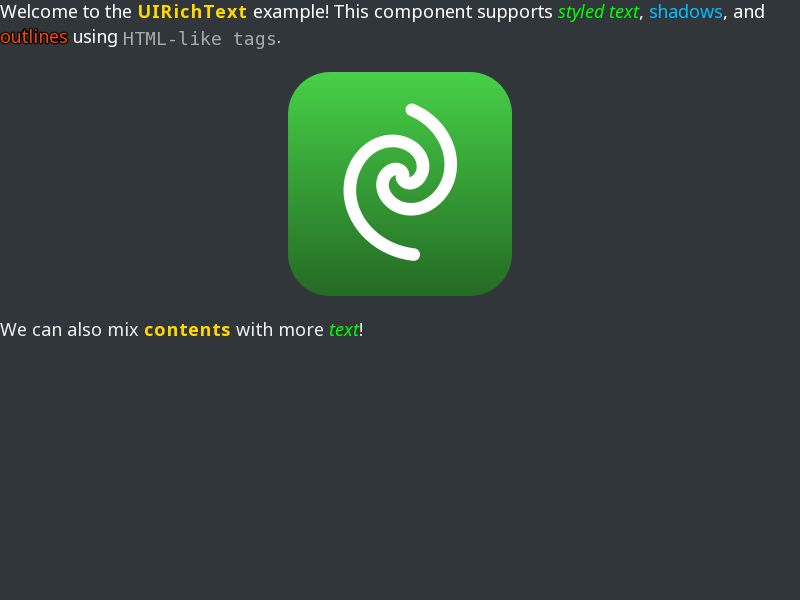
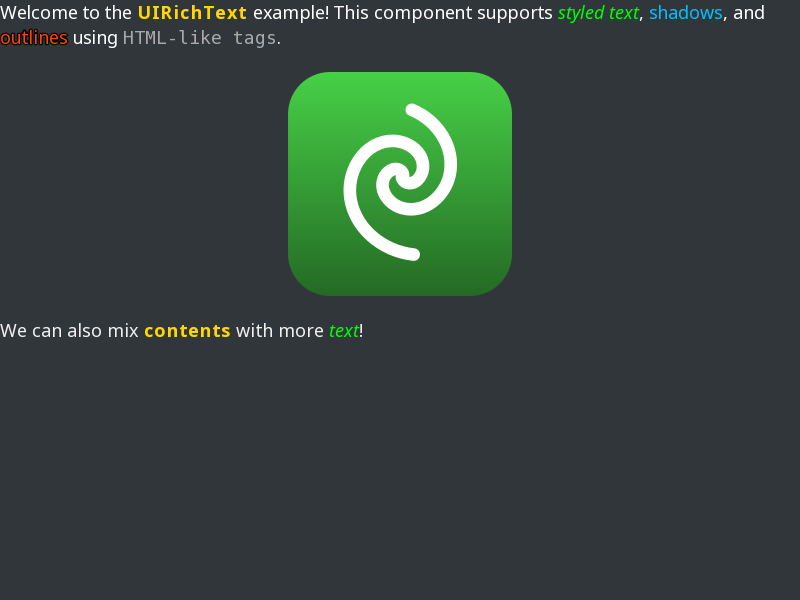
Fix baseline alignment when rendering mixed rich-text fonts + Fix image diff button hit-testing and native pixel sizing
- Compensate for the difference between font ascent used by RichText layout
  and the character-size baseline used by Text rendering. Cache the natural
  baseline in each text span while preserving background and selection boxes.

- Add pixel-level coverage for proportional and monospace fonts at matching
  and different sizes, with default and explicit line heights. Refresh the
  affected rendering reference images.

- Keep diff view select buttons last in the child list so lazily created
  image viewers cannot intercept their clicks.

- Display source images and generated diffs at native pixel dimensions,
  independent of UI density, scaling down only to fit the viewport. Avoid
  rounding twice at fractional densities.

- Add regression coverage for mode switching and sizing at densities
  1, 1.5, and 2. Use portable temporary paths.

Changed region(s): [[0.0, 0.0, 0.9688, 0.09], [0.0, 0.54, 0.4688, 0.57], [0.25, 0.06, 0.3438, 0.09]]

diff --git a/src/tests/unit_tests/ui_pixel_density_tests.cpp b/src/tests/unit_tests/ui_pixel_density_tests.cpp
@@ -5,8 +5,11 @@
 #include <eepp/graphics/ninepatch.hpp>
 #include <eepp/graphics/pixeldensity.hpp>
 #include <eepp/graphics/texturefactory.hpp>
+#include <eepp/scene/scenemanager.hpp>
+#include <eepp/system/clock.hpp>
 #include <eepp/system/filesystem.hpp>
 #include <eepp/system/sys.hpp>
+#include <eepp/system/threadpool.hpp>
 #include <eepp/ui/tools/uidiffview.hpp>
 #include <eepp/ui/tools/uifontpickerdialog.hpp>
 #include <eepp/ui/tools/uiimageviewer.hpp>
@@ -14,6 +17,7 @@
 #include <eepp/ui/uiapplication.hpp>
 #include <eepp/ui/uicombobox.hpp>
 #include <eepp/ui/uidropdownlist.hpp>
+#include <eepp/ui/uiimage.hpp>
 #include <eepp/ui/uilistbox.hpp>
 #include <eepp/ui/uiloader.hpp>
 #include <eepp/ui/uimessagebox.hpp>
@@ -24,6 +28,7 @@
 
 using namespace EE;
 using namespace EE::Graphics;
+using namespace EE::Scene;
 using namespace EE::System;
 using namespace EE::UI;
 using namespace EE::UI::Tools;
@@ -234,6 +239,78 @@ UTEST( PixelDensityRegression, DiffGuttersUsePhysicalGlyphWidthAndGrowWithLineNu
 		}
 		diff->setViewMode( UIDiffView::ViewMode::Unified );
 	}
+}
+
+UTEST( PixelDensityRegression, DiffImagesUseNativePixelsAndOnlyShrinkToFit ) {
+	DensityApplication fixture;
+	fixture.app.getUI()->setThreadPool( ThreadPool::createShared( 2 ) );
+	const std::string oldPath( Sys::getTempPath() + "eepp-diff-density-old.png" );
+	const std::string newPath( Sys::getTempPath() + "eepp-diff-density-new.png" );
+	// Odd dimensions expose rounding errors when undoing fractional pixel density.
+	Image oldImage( 81, 51, 4, Color::Red );
+	Image newImage( 81, 51, 4, Color::Blue );
+	ASSERT_TRUE( oldImage.saveToFile( oldPath, Image::SaveType::PNG ) );
+	ASSERT_TRUE( newImage.saveToFile( newPath, Image::SaveType::PNG ) );
+
+	for ( Float density : { 1.f, 1.5f, 2.f } ) {
+		PixelDensity::setPixelDensity( density );
+		auto* diff = UIDiffView::New();
+		diff->setLayoutSizePolicy( SizePolicy::Fixed, SizePolicy::Fixed );
+		diff->setPixelsSize( 400, 200 );
+		diff->loadFromFile( oldPath, newPath );
+		auto* left = diff->getLeftImageViewer();
+		auto* right = diff->getRightImageViewer();
+		ASSERT_TRUE( left && right );
+		const auto waitForImages = [&] {
+			Clock clock;
+			while ( ( !left->getImage()->getDrawable() || !right->getImage()->getDrawable() ) &&
+					clock.getElapsedTime() < Seconds( 5 ) ) {
+				SceneManager::instance()->update( Seconds( 1.f / 60.f ) );
+				Sys::sleep( Milliseconds( 1 ) );
+			}
+			return left->getImage()->getDrawable() && right->getImage()->getDrawable();
+		};
+		ASSERT_TRUE( waitForImages() );
+		for ( auto* viewer : { left, right } ) {
+			EXPECT_EQ( 81.f, viewer->getImage()->getPixelsSize().x );
+			EXPECT_EQ( 51.f, viewer->getImage()->getPixelsSize().y );
+		}
+
+		diff->setPixelsSize( 80, 100 );
+		for ( auto* viewer : { left, right } ) {
+			EXPECT_EQ( 40.f, viewer->getImage()->getPixelsSize().x );
+			EXPECT_EQ( 25.f, viewer->getImage()->getPixelsSize().y );
+		}
+		diff->setPixelsSize( 400, 20 );
+		for ( auto* viewer : { left, right } ) {
+			EXPECT_EQ( 31.f, viewer->getImage()->getPixelsSize().x );
+			EXPECT_EQ( 20.f, viewer->getImage()->getPixelsSize().y );
+		}
+
+		diff->setPixelsSize( 400, 200 );
+		diff->setViewMode( UIDiffView::ViewMode::Unified );
+		const auto viewers = diff->findAllByType<UIImageViewer>( UI_TYPE_IMAGE_VIEWER );
+		ASSERT_EQ( size_t{ 3 }, viewers.size() );
+		auto* visualDiff = viewers[2]->getImage();
+		ASSERT_TRUE( visualDiff->getDrawable() );
+		EXPECT_EQ( 81.f, visualDiff->getPixelsSize().x );
+		EXPECT_EQ( 51.f, visualDiff->getPixelsSize().y );
+		diff->setPixelsSize( 40, 100 );
+		EXPECT_EQ( 40.f, visualDiff->getPixelsSize().x );
+		EXPECT_EQ( 25.f, visualDiff->getPixelsSize().y );
+		diff->setPixelsSize( 400, 200 );
+		EXPECT_EQ( 81.f, visualDiff->getPixelsSize().x );
+		EXPECT_EQ( 51.f, visualDiff->getPixelsSize().y );
+		diff->setViewMode( UIDiffView::ViewMode::SideBySide );
+		ASSERT_TRUE( waitForImages() );
+		for ( auto* viewer : { left, right } ) {
+			EXPECT_EQ( 81.f, viewer->getImage()->getPixelsSize().x );
+			EXPECT_EQ( 51.f, viewer->getImage()->getPixelsSize().y );
+		}
+		eeDelete( diff );
+	}
+	FileSystem::fileRemove( oldPath );
+	FileSystem::fileRemove( newPath );
 }
 
 UTEST( PixelDensityRegression, TableContainerPaddingAndOriginStayLogical ) {

diff --git a/src/tests/unit_tests/uidiffview_tests.cpp b/src/tests/unit_tests/uidiffview_tests.cpp
@@ -1,6 +1,7 @@
 #include "utest.h"
 #include <atomic>
 #include <eepp/graphics/image.hpp>
+#include <eepp/scene/eventdispatcher.hpp>
 #include <eepp/system/filesystem.hpp>
 #include <eepp/ui/doc/textdocument.hpp>
 #include <eepp/ui/tools/uidiffview.hpp>
@@ -9,6 +10,7 @@
 #include <eepp/ui/uicodeeditor.hpp>
 #include <eepp/ui/uiscenenode.hpp>
 #include <eepp/ui/uiscrollview.hpp>
+#include <eepp/ui/uiselectbutton.hpp>
 #include <thread>
 
 using namespace EE;
@@ -226,6 +228,7 @@ UTEST( UIDiffView, LoadFromFileImageDiffUsesImageViewers ) {
 	ASSERT_TRUE( newImage.saveToFile( newImagePath, Graphics::Image::SaveType::PNG ) );
 
 	UIDiffView* diffView = UIDiffView::New();
+	diffView->setLayoutSizePolicy( SizePolicy::Fixed, SizePolicy::Fixed );
 	diffView->setPixelsSize( 400, 200 );
 	diffView->loadFromFile( oldImagePath, newImagePath );
 
@@ -237,6 +240,44 @@ UTEST( UIDiffView, LoadFromFileImageDiffUsesImageViewers ) {
 	EXPECT_FALSE( diffView->getLeftEditor()->isVisible() );
 	EXPECT_FALSE( diffView->getRightEditor()->isVisible() );
 	EXPECT_TRUE( diffView->getFileName().toUtf8() == "eepp-uidiffview-new.png" );
+
+	auto toggles = diffView->findAllByType<UISelectButton>( UI_TYPE_SELECTBUTTON );
+	ASSERT_EQ( size_t{ 2 }, toggles.size() );
+	auto* modeToggle = toggles[0];
+	auto* completeToggle = toggles[1];
+	modeToggle->setLayoutSizePolicy( SizePolicy::Fixed, SizePolicy::Fixed );
+	modeToggle->setPixelsSize( 100, 24 );
+	for ( auto mode : { UIDiffView::ViewMode::Unified, UIDiffView::ViewMode::SideBySide,
+						UIDiffView::ViewMode::Unified } ) {
+		app.getUI()->flushDirtyStyleAndLayout();
+		const Vector2f clickPos = modeToggle->convertToWorldSpace( { 50, 12 } );
+		auto* hit = diffView->overFind( clickPos );
+		ASSERT_EQ( modeToggle, hit );
+		app.getUI()->getEventDispatcher()->sendMouseClick( hit, clickPos.asInt(), EE_BUTTON_LMASK );
+		EXPECT_EQ( mode, diffView->getViewMode() );
+		EXPECT_EQ( mode != UIDiffView::ViewMode::Unified, modeToggle->isSelected() );
+		EXPECT_EQ( completeToggle, diffView->getLastChild() );
+		EXPECT_EQ( modeToggle, completeToggle->getPrevNode() );
+		EXPECT_EQ( mode == UIDiffView::ViewMode::SideBySide,
+				   diffView->getLeftImageViewer()->isVisible() );
+		EXPECT_EQ( mode == UIDiffView::ViewMode::SideBySide,
+				   diffView->getRightImageViewer()->isVisible() );
+		const auto viewers = diffView->findAllByType<UIImageViewer>( UI_TYPE_IMAGE_VIEWER );
+		ASSERT_EQ( size_t{ 3 }, viewers.size() );
+		EXPECT_EQ( mode == UIDiffView::ViewMode::Unified, viewers[2]->isVisible() );
+		EXPECT_TRUE( viewers[2]->hasImage() );
+	}
+
+	diffView->loadFromStrings( "old", "new" );
+	completeToggle->setLayoutSizePolicy( SizePolicy::Fixed, SizePolicy::Fixed );
+	completeToggle->setPixelsSize( 80, 24 );
+	app.getUI()->flushDirtyStyleAndLayout();
+	const Vector2f clickPos = completeToggle->convertToWorldSpace( { 40, 12 } );
+	auto* hit = diffView->overFind( clickPos );
+	ASSERT_EQ( completeToggle, hit );
+	app.getUI()->getEventDispatcher()->sendMouseClick( hit, clickPos.asInt(), EE_BUTTON_LMASK );
+	EXPECT_TRUE( diffView->isCompleteView() );
+	EXPECT_FALSE( completeToggle->isSelected() );
 
 	eeDelete( diffView );
 	FileSystem::fileRemove( oldImagePath );

diff --git a/src/tests/unit_tests/richtext_tests.cpp b/src/tests/unit_tests/richtext_tests.cpp
@@ -254,6 +254,57 @@ UTEST( RichText, BaselineAlignment ) {
 	Engine::destroySingleton();
 }
 
+UTEST( RichText, MixedFontPaintedBaselinesMatchLineMetrics ) {
+	auto* scene = createRichTextScene();
+	ASSERT_TRUE( scene != nullptr );
+	auto* sans = static_cast<FontTrueType*>( scene->getUIThemeManager()->getDefaultFont() );
+	auto mono = FontTrueType::New( "MixedBaselineMono", "../assets/fonts/DejaVuSansMono.ttf" );
+	ASSERT_TRUE( mono && mono->loaded() );
+	mono->setAntialiasing( FontAntialiasing::Grayscale );
+	sans->setAntialiasing( FontAntialiasing::Grayscale );
+	auto* window = Engine::instance()->getCurrentWindow();
+	for ( const Uint32 monoSize : { 16u, 24u } ) {
+		for ( const Float lineHeight : { 0.f, 48.f } ) {
+			RichText richText;
+			richText.getFontStyleConfig().Font = sans;
+			richText.getFontStyleConfig().CharacterSize = 24;
+			richText.setLineHeight( lineHeight );
+			richText.addSpan( "HH", sans, 24, Color::Black );
+			richText.addSpan( "HH", mono.get(), monoSize, Color::Black );
+			richText.addSpan( "HH", sans, 24, Color::Black );
+			richText.updateLayout();
+			ASSERT_EQ( richText.getLines().size(), 1u );
+			const auto& line = richText.getLines()[0];
+			ASSERT_EQ( line.spans.size(), 3u );
+			window->setClearColor( Color::White );
+			window->clear();
+			richText.draw( 32.f, 32.f );
+			Image image = window->getFrontBufferImage();
+			for ( const auto& span : line.spans ) {
+				const auto& style = span.text->getFontStyleConfig();
+				const auto bounds =
+					style.Font->getGlyph( 'H', style.CharacterSize, false, false, 0.f ).bounds;
+				Int32 lastInkRow = -1;
+				const Int32 left = static_cast<Int32>( 32.f + span.position.x );
+				const Int32 right = left + static_cast<Int32>( span.size.getWidth() );
+				for ( Int32 y = 16; y < 128; ++y ) {
+					for ( Int32 x = left; x < right; ++x ) {
+						if ( image.getPixel( x, y ).r < 128 )
+							lastInkRow = y;
+					}
+				}
+				ASSERT_GE( lastInkRow, 0 );
+				// H has no descender. Recover its painted baseline from the glyph bounds;
+				// checking only span offsets would miss a renderer/layout mismatch.
+				const Float paintedBaseline = lastInkRow + 1.f - bounds.Top - bounds.Bottom;
+				EXPECT_NEAR( paintedBaseline, std::trunc( 32.f + line.maxAscent ), 0.001f );
+			}
+		}
+	}
+	mono.reset();
+	destroyRichTextScene( scene );
+}
+
 UTEST( RichText, VerticalAlignAtomicBoxes ) {
 	Engine::instance()->createWindow( WindowSettings( 800, 600, "RichText Vertical Align",
 													  WindowStyle::Default, WindowBackend::Default,

diff --git a/src/eepp/ui/tools/uidiffview.cpp b/src/eepp/ui/tools/uidiffview.cpp
@@ -62,7 +62,8 @@ static bool setImageViewerImageSize( UIImageViewer* viewer ) {
 	if ( !viewer || !viewer->getImage() || !viewer->getImage()->getDrawable() )
 		return false;
 
-	auto imageSize( viewer->getImage()->getDrawable()->getPixelsSize() );
+	// Sprite logical dimensions are source pixels; getPixelsSize() includes UI density.
+	auto imageSize( viewer->getImage()->getDrawable()->getSize() );
 	auto viewerSize( viewer->getPixelsSize() );
 	auto scale(
 		viewerSize.x > 0 && viewerSize.y > 0 &&
@@ -830,6 +831,9 @@ void UIDiffView::createEditor( UICodeEditor*& editor,
 UIImageViewer* UIDiffView::createImageViewer() {
 	auto* imageViewer = UIImageViewer::New();
 	imageViewer->setParent( this );
+	// Image viewers are created lazily; keep the overlay buttons last for hit testing.
+	mModeToggle->toFront();
+	mCompleteViewToggle->toFront();
 	imageViewer->setVisible( false );
 	imageViewer->setLayoutSizePolicy( SizePolicy::Fixed, SizePolicy::Fixed );
 	imageViewer->setDisplayOptions( UIImageViewer::DisplayDimensions );
@@ -979,7 +983,7 @@ void UIDiffView::onAutoSize() {
 		Float height = PixelDensity::dpToPx( 64 ); // force a min height
 		auto viewImageHeight = []( auto iv ) -> Float {
 			if ( iv && iv->getImage() && iv->getImage()->getDrawable() )
-				return iv->getImage()->getDrawable()->getPixelsSize().getHeight();
+				return iv->getImage()->getDrawable()->getSize().getHeight();
 			return 0;
 		};
 

diff --git a/src/eepp/graphics/richtext.cpp b/src/eepp/graphics/richtext.cpp
@@ -226,6 +226,9 @@ void RichText::draw( const Float& X, const Float& Y, const Vector2f& scale, cons
 					}
 				}
 
+				// Text paints glyphs from an em-size baseline. Translate that origin to the
+				// font ascent used by layout; backgrounds and selection retain their line boxes.
+				pos.y += span.baseline - text->getCharacterSize();
 				if ( rotation == 0 && scale == Vector2f::One ) {
 					text->draw( std::trunc( X + pos.x ), std::trunc( Y + line.y + pos.y ),
 								Vector2f::One, 0, effect );
@@ -890,7 +893,7 @@ class RichTextInlineLayouter {
 			bool isFloat = span.floatType != RichText::InlineFloat::None;
 
 			if ( span.type == RichText::RenderSpan::Type::Text ) {
-				Float baseline = getTextVisualBaseline( span.text );
+				Float baseline = span.baseline;
 				RichText::BaselineAlignValue baselineAlign = effectiveInlineBaselineAlign(
 					inlineItems, span.inlinePath, span.baselineAlign );
 				Float offsetY = getBaselineAlignedOffset(
@@ -1990,6 +1993,7 @@ class RichTextInlineLayouter {
 		RichText::RenderSpan renderSpan;
 		renderSpan.type = RichText::RenderSpan::Type::Text;
 		renderSpan.text = renderSpanText;
+		renderSpan.baseline = getTextVisualBaseline( payload.text );
 		renderSpan.margin = payload.margin;
 		renderSpan.padding = payload.padding;
 		renderSpan.lineHeight = payload.lineHeight;

diff --git a/src/eepp/ui/tools/uiimageviewer.cpp b/src/eepp/ui/tools/uiimageviewer.cpp
@@ -248,9 +248,9 @@ void UIImageViewer::updateImageLayout() {
 	if ( !mImage || !mImage->getDrawable() )
 		return;
 
-	Sizef imageSize( mImage->getDrawable()->getPixelsSize() );
-	if ( mUseNativeImageSize )
-		imageSize /= PixelDensity::getPixelDensity();
+	// Use source dimensions directly to avoid rounding twice at fractional pixel densities.
+	Sizef imageSize( mUseNativeImageSize ? mImage->getDrawable()->getSize()
+										 : mImage->getDrawable()->getPixelsSize() );
 
 	const Float scale =
 		imageSize.x > mSize.x || imageSize.y > mSize.y

diff --git a/include/eepp/graphics/richtext.hpp b/include/eepp/graphics/richtext.hpp
@@ -236,7 +236,7 @@ class EE_API RichText : public Drawable {
 		Float lineHeight{ 0 };
 		BaselineAlignValue baselineAlign;
 		bool suppressBackground{ false };
-		Float baseline{ 0 };
+		Float baseline{ 0 }; // Natural baseline from the content box's top, also for text runs.
 		InlineFloat floatType{ InlineFloat::None };
 		InlineClear clearType{ InlineClear::None };
 		bool isLineBreak{ false };
